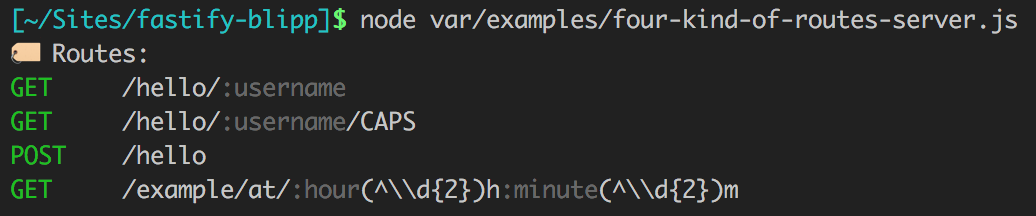
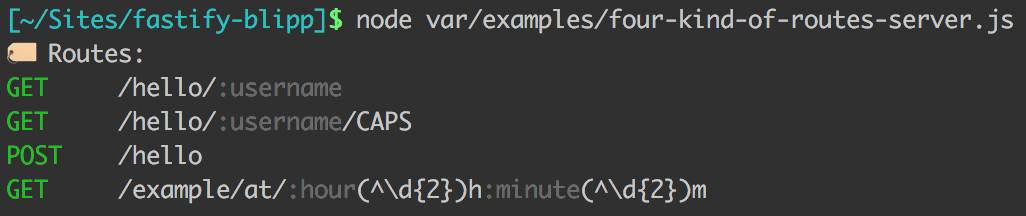
correct example

diff --git a/var/examples/four-kind-of-routes-server.js b/var/examples/four-kind-of-routes-server.js
@@ -12,8 +12,8 @@ fastify.post("/hello", async (req, reply) => ({
   greeting: `Hello, ${req.body.username}`
 }));
 fastify.get(
-  "/example/at/:hour(^\\\\d{2})h:minute(^\\\\d{2})m",
-  (req, reply) => ({
+  "/example/at/:hour(^\\d{2})h:minute(^\\d{2})m",
+  async (req, reply) => ({
     hour: req.params.hour,
     minute: req.params.minute
   })

diff --git a/README.md b/README.md
@@ -23,8 +23,8 @@ fastify.post("/hello", async (req, reply) => ({
   greeting: `Hello, ${req.body.username}`
 }));
 fastify.get(
-  "/example/at/:hour(^\\\\d{2})h:minute(^\\\\d{2})m",
-  (req, reply) => ({
+  "/example/at/:hour(^\\d{2})h:minute(^\\d{2})m",
+  async (req, reply) => ({
     hour: req.params.hour,
     minute: req.params.minute
   })
